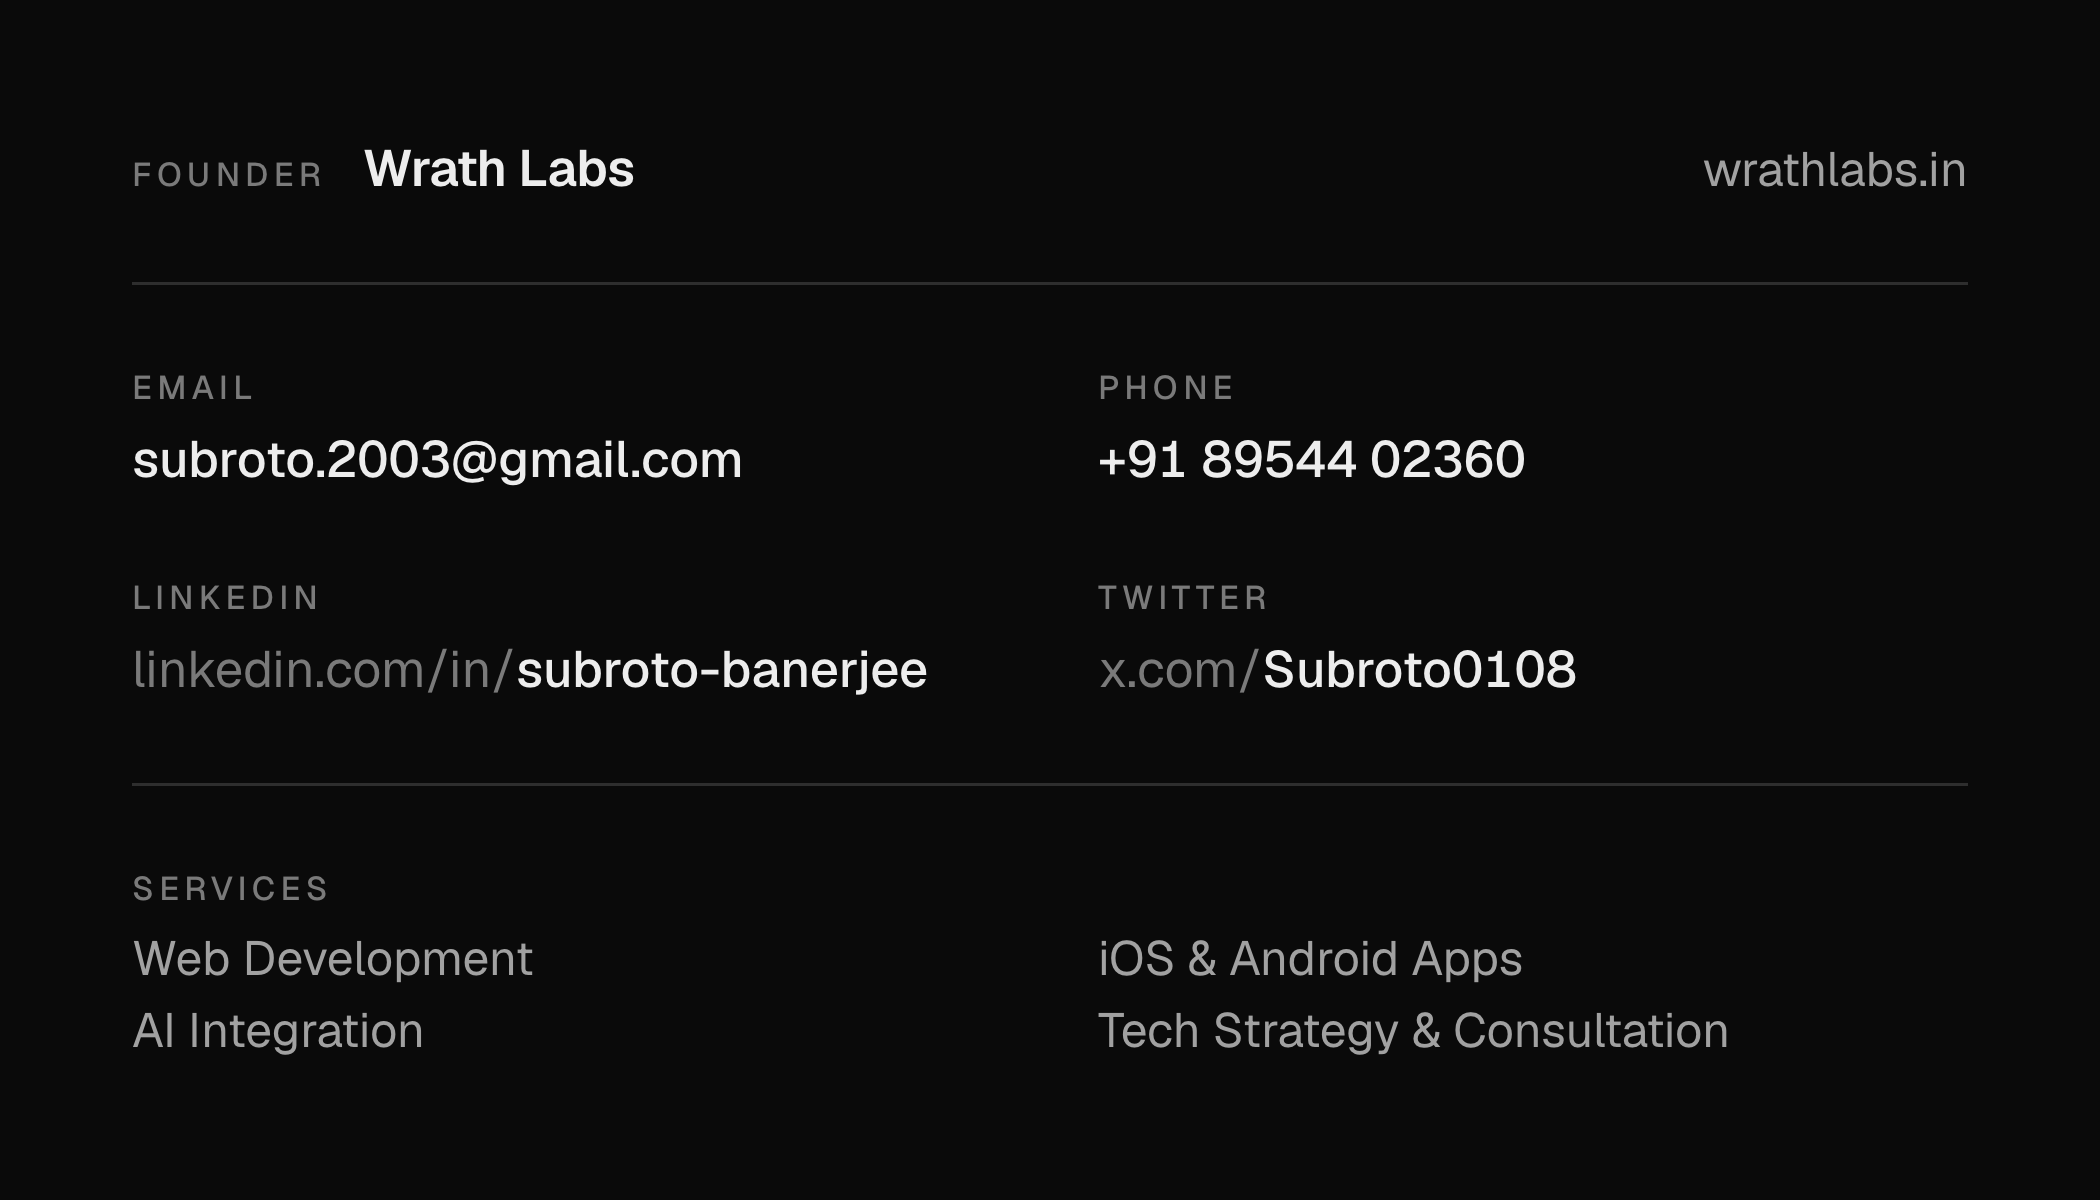
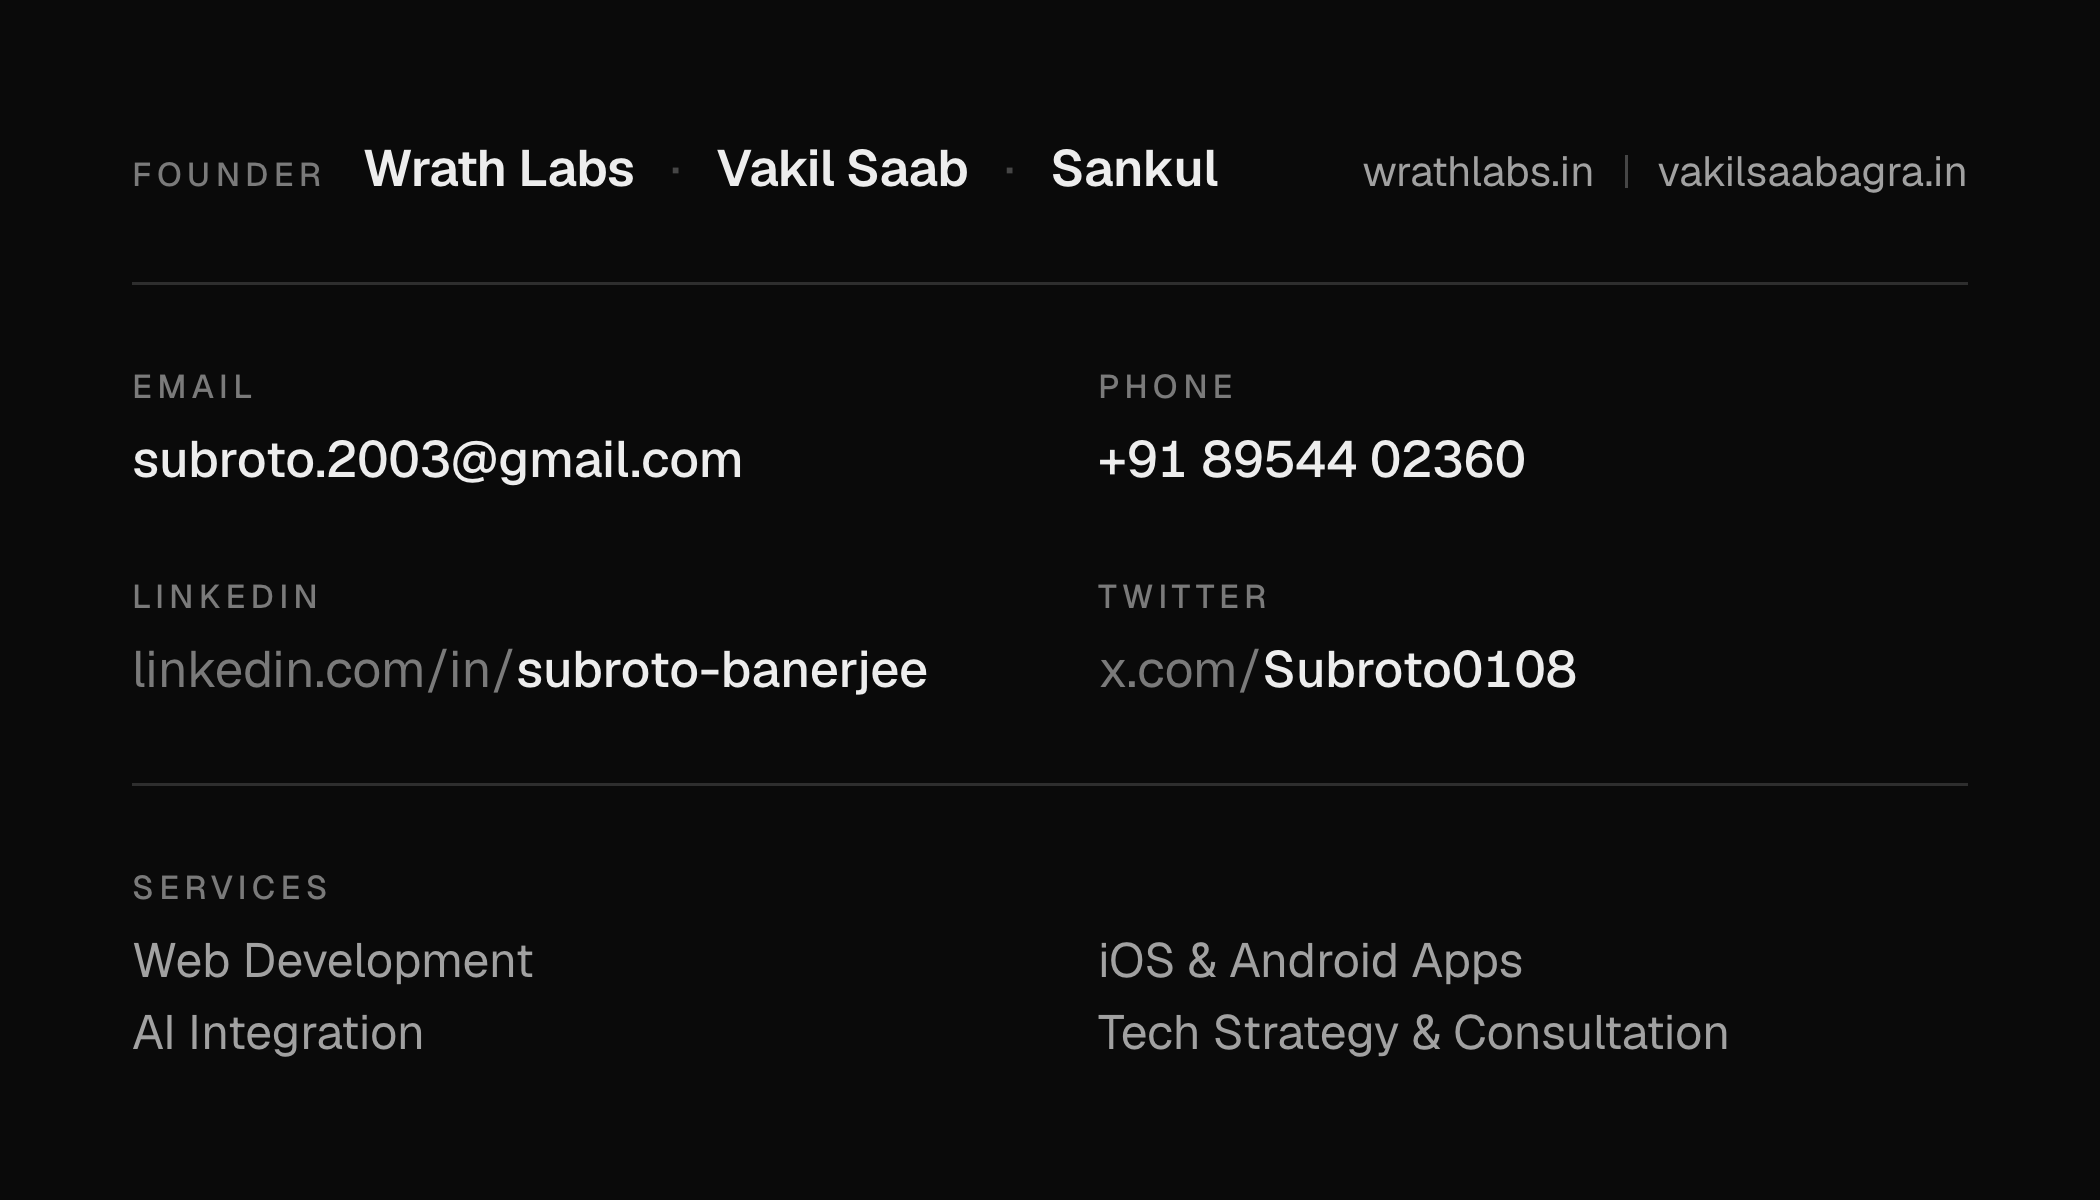
feat: update business card roles and list all three businesses on the back

diff --git a/assets/business-card/card-preview.html b/assets/business-card/card-preview.html
@@ -15,7 +15,7 @@
     <div class="card front">
       <div class="identity">
         <h1 class="name">Subroto Banerjee</h1>
-        <p class="role">Engineer<i></i>Builder<i></i>Creator</p>
+        <p class="role">Founder<i></i>Engineer<i></i>Creator</p>
       </div>
 
       <footer class="band band--foot">
@@ -29,8 +29,8 @@
     <figcaption>Back</figcaption>
     <div class="card back">
       <header class="band band--head">
-        <span class="brand"><span class="k">Founder</span><b>Wrath Labs</b></span>
-        <span class="sub">wrathlabs.in</span>
+        <span class="brand"><span class="k">Founder</span><b>Wrath Labs</b><b>Vakil Saab</b><b>Sankul</b></span>
+        <span class="sub">wrathlabs.in<i></i>vakilsaabagra.in</span>
       </header>
 
       <dl class="cols contacts">

diff --git a/assets/business-card/card.css b/assets/business-card/card.css
@@ -142,7 +142,9 @@ body {
 }
 .brand { display: flex; align-items: baseline; gap: 12px; }
 .brand b { font-size: 17px; font-weight: 600; letter-spacing: -0.01em; }
-.band .sub { font-weight: 400; color: var(--text-mid); }
+.brand b + b::before { content: "·"; margin-right: 12px; color: var(--text-dim); font-weight: 400; }
+.band .sub { display: flex; align-items: center; font-weight: 400; font-size: 14px; color: var(--text-mid); }
+.band .sub i { width: 1px; height: 11px; margin-inline: 10px; background: var(--text-dim); }
 
 .cols {
   display: grid;

diff --git a/assets/business-card/card-back.html b/assets/business-card/card-back.html
@@ -11,8 +11,8 @@
 <body>
 <div class="card back" id="back">
   <header class="band band--head">
-    <span class="brand"><span class="k">Founder</span><b>Wrath Labs</b></span>
-    <span class="sub">wrathlabs.in</span>
+    <span class="brand"><span class="k">Founder</span><b>Wrath Labs</b><b>Vakil Saab</b><b>Sankul</b></span>
+    <span class="sub">wrathlabs.in<i></i>vakilsaabagra.in</span>
   </header>
 
   <dl class="cols contacts">

diff --git a/assets/business-card/card-front.html b/assets/business-card/card-front.html
@@ -12,7 +12,7 @@
 <div class="card front" id="front">
   <div class="identity">
     <h1 class="name">Subroto Banerjee</h1>
-    <p class="role">Engineer<i></i>Builder<i></i>Creator</p>
+    <p class="role">Founder<i></i>Engineer<i></i>Creator</p>
   </div>
 
   <footer class="band band--foot">
